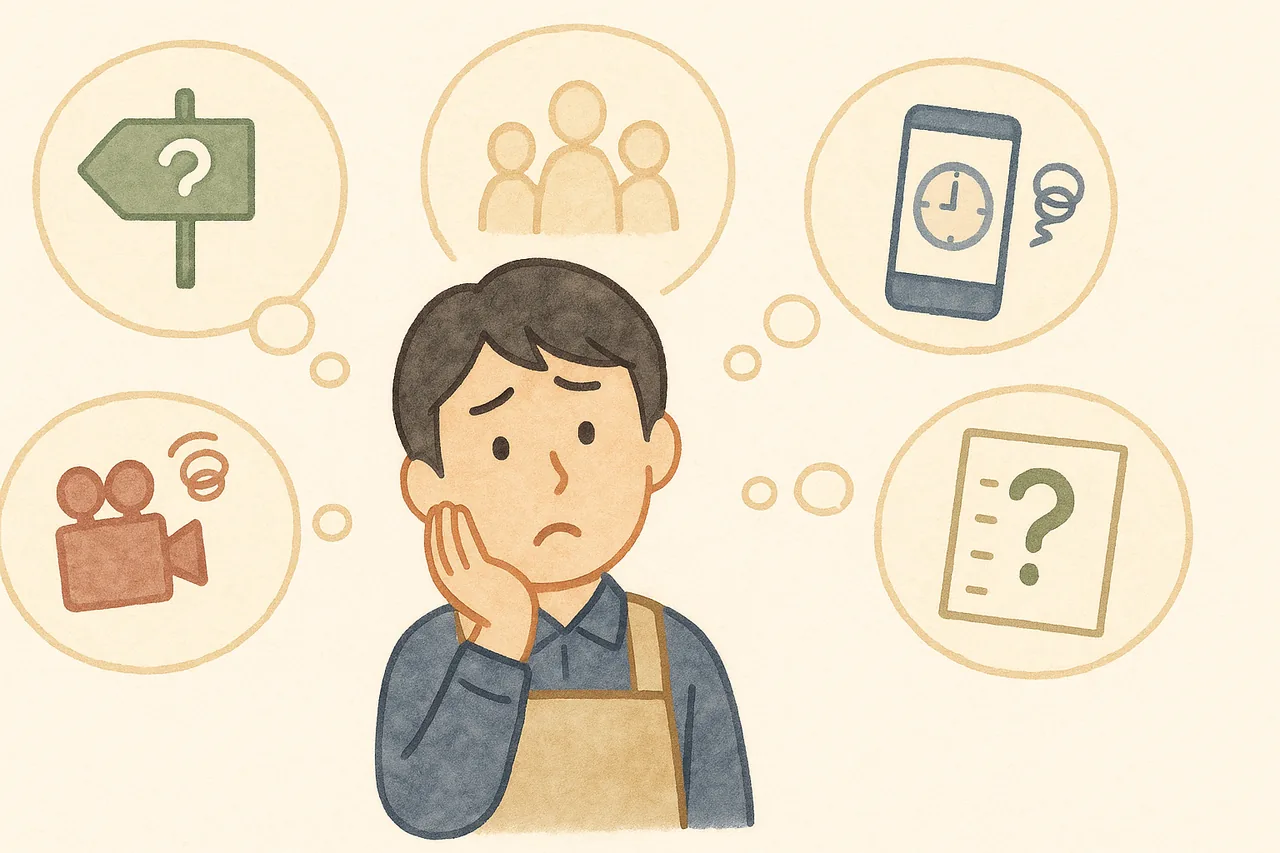
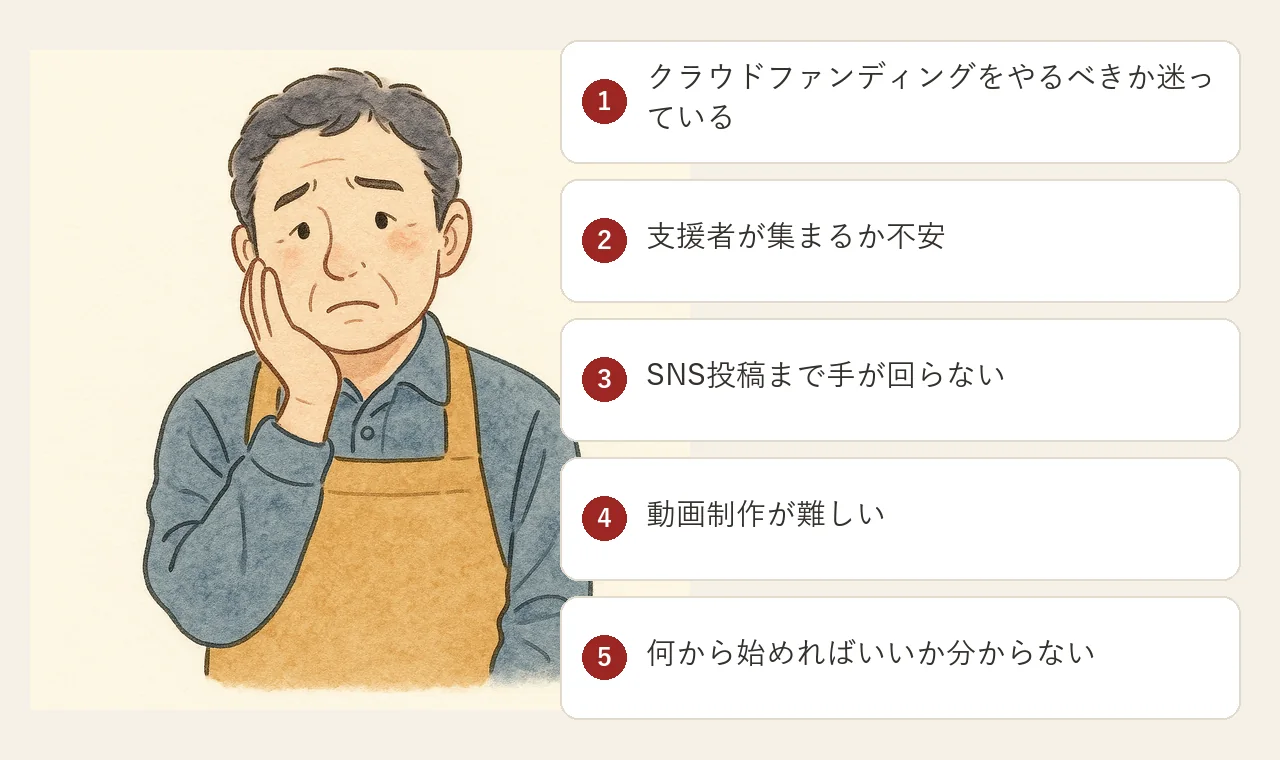
fix(home): お悩み画像に5つのお悩みを読める文章として明記
- gpt-image-1で生成した人物イラスト＋お悩み5項目のテキストを合成
- アイコンのみでは意味が伝わらない問題を解消

diff --git a/src/app/page.tsx b/src/app/page.tsx
@@ -297,7 +297,7 @@ export default function Home() {
                 src="/images/home/home-worries.webp"
                 alt={`クラウドファンディングでよくあるお悩み：${worries.join("／")}`}
                 width={1280}
-                height={853}
+                height={760}
                 sizes="(max-width: 768px) 92vw, 48rem"
                 className="h-auto w-full"
               />
